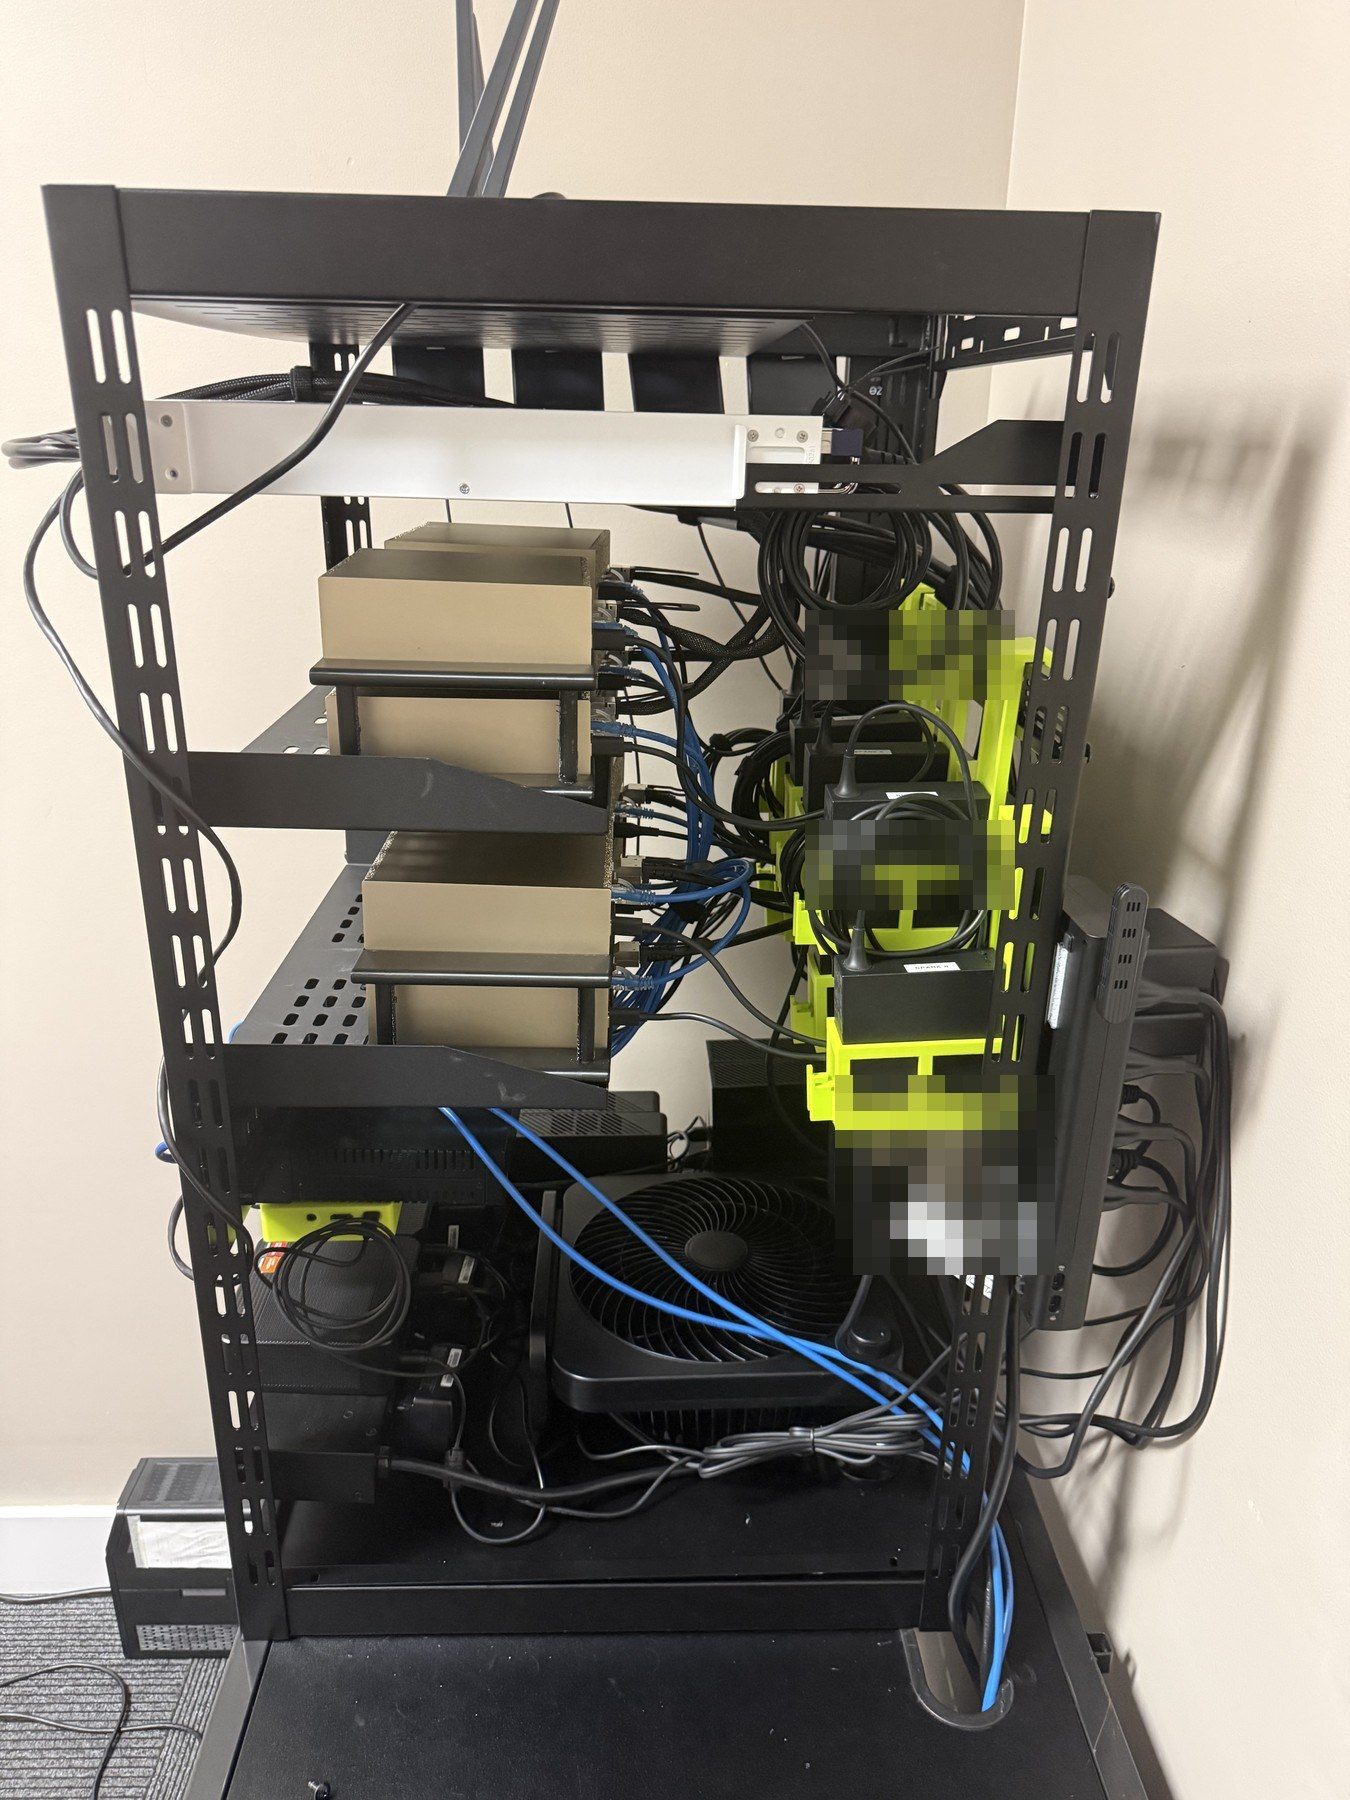
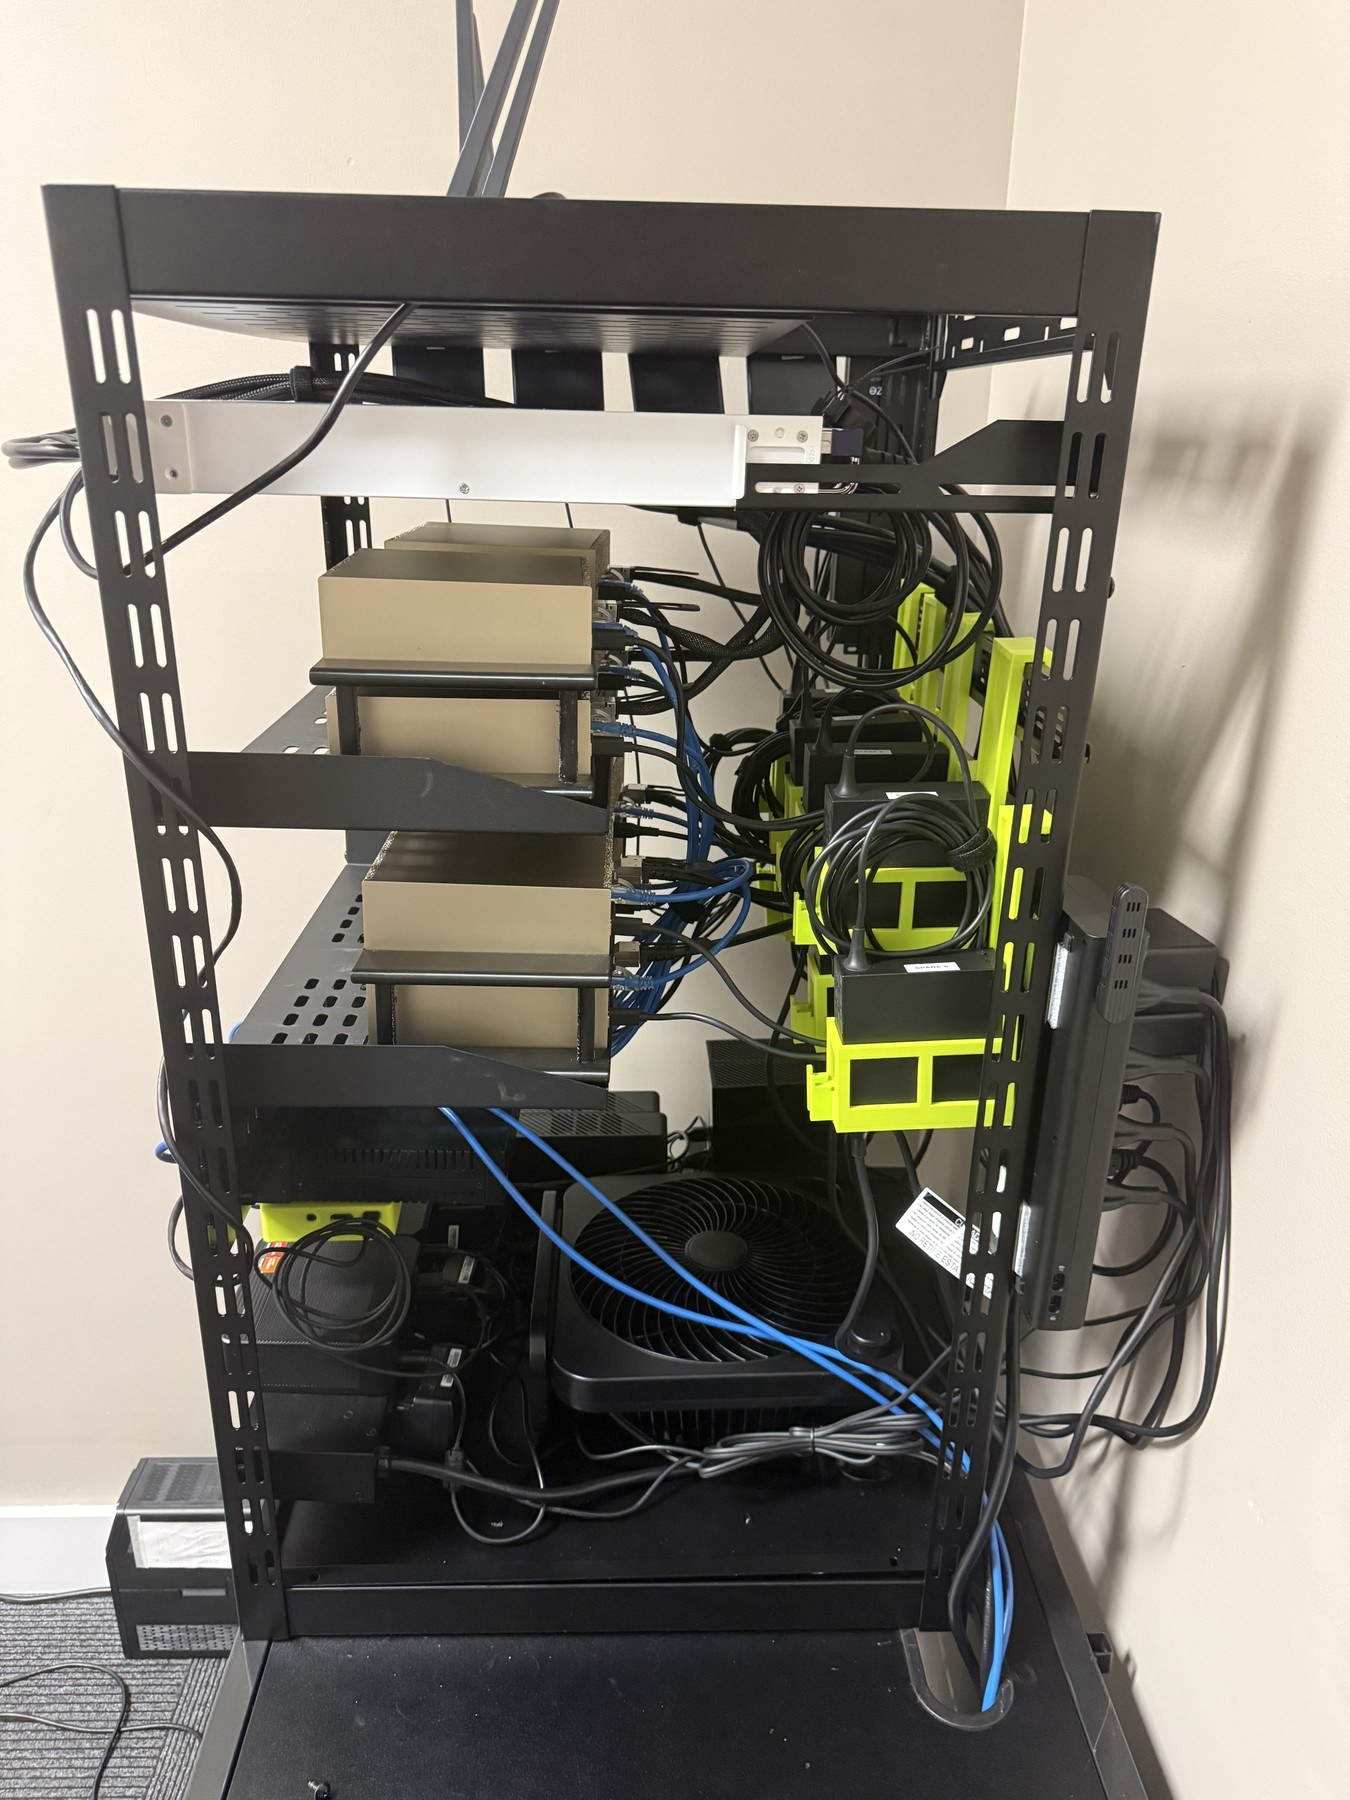
docs: restore approved rack photo details

Changed region(s): [[0.6222, 0.5911, 0.7778, 0.7156], [0.5911, 0.4356, 0.7778, 0.5289], [0.5911, 0.3422, 0.7467, 0.4044]]

diff --git a/docs/MEDIA-REVIEW.md b/docs/MEDIA-REVIEW.md
@@ -24,34 +24,30 @@ The existing rack overview remains part of the review set:
 | 9 | `media/review/09-final-clips-installed-side.jpg` | Installed support geometry from the side |
 | 10 | `media/review/10-final-clips-installed-rear.jpg` | Installed support set from the rear |
 | 11 | `media/review/11-fan-below-psu-standoffs.jpg` | Fan position below the raised PSU bricks |
-| 12 | `media/review/12-completed-rack-rear-sanitized.jpg` | Completed rear arrangement with equipment tags pixelated |
-| 13 | `media/review/13-completed-rack-front-sanitized.jpg` | Completed front arrangement with exact port mapping and labels pixelated |
+| 12 | `media/review/12-completed-rack-rear-sanitized.jpg` | Completed rear arrangement with visible owner-approved equipment labels |
+| 13 | `media/review/13-completed-rack-front-sanitized.jpg` | Completed front arrangement with visible owner-approved rack labels and cabling |
 
 The complete sequence is placed in
 [THERMAL-MANAGEMENT.md](THERMAL-MANAGEMENT.md). Selected frames appear in the
 README and case study where they support the broader engineering timeline.
 
-## Pixel review and redactions
+## Pixel review
 
-The first ten new photographs contain no readable IP addresses, hostnames,
-MAC addresses, credentials, account data, or exact controller map. Three images
-received limited deterministic pixelation:
+All thirteen photographs were manually inspected. The owner approved the
+visible Spark names, power-unit names, equipment model markings, rack labels,
+numbered cable marker, switch and patch-panel cabling, and the completed front
+and rear rack views. No pixels are blurred, masked, pixelated, or replaced.
 
-- `media/review/11-fan-below-psu-standoffs.jpg`: one numbered cable marker;
-- `media/review/12-completed-rack-rear-sanitized.jpg`: small equipment labels
-  and a serial-bearing hanging tag; and
-- `media/review/13-completed-rack-front-sanitized.jpg`: host labels,
-  infrastructure labels, serial-bearing PDU text, and the visible switch-port
-  and patch-panel relationship.
-
-The redactions do not alter the PSU supports, fan, rack structure, or the
-mechanical relationships being documented. Power-bank names that do not expose
-an actionable mapping may remain where visible.
+The photographs contain no visible IP addresses, MAC addresses, usernames,
+credentials, account data, or private controller identifiers. The word
+`sanitized` in two filenames refers to the metadata-free public JPEG conversion,
+not a pixel redaction.
 
 ## Publication gate
 
 - All fourteen review JPEGs are listed in this manifest.
 - Every image reference resolves locally.
 - JPEG metadata markers are rejected by the publication checker.
-- Exact power, controller, and network relationships remain excluded.
+- Exact addresses, credentials, private controller identifiers, and operational
+  configuration remain excluded from the repository text.
 - This remains a draft PR until the owner separately authorizes merge.

diff --git a/docs/PUBLICATION-SAFETY.md b/docs/PUBLICATION-SAFETY.md
@@ -44,10 +44,11 @@ The addresses are reserved for documentation and do not identify the live enviro
 Unreviewed screenshots, rack photos, and equipment maps remain excluded. A
 user-owned image may be staged under `media/review/` only when its metadata has
 been removed, its pixels have been manually inspected, and its placement and
-redactions are documented in [MEDIA-REVIEW.md](MEDIA-REVIEW.md). The reviewed
-set records the PSU-support design and rack thermal work. Exact power,
-controller, host-label, and network-port relationships remain excluded or are
-pixelated in the public copy.
+review status are documented in [MEDIA-REVIEW.md](MEDIA-REVIEW.md). The reviewed
+set records the PSU-support design and rack thermal work. The owner approved the
+visible Spark names, power-unit names, model markings, rack labels, and cabling.
+The photos contain no visible IP addresses, MAC addresses, credentials, account
+data, or private controller identifiers.
 
 ## Automated gate
 

diff --git a/docs/THERMAL-MANAGEMENT.md b/docs/THERMAL-MANAGEMENT.md
@@ -79,9 +79,10 @@ publishing the exact outlet selector or controller identity.
 
 ![Fan below the PSU supports](../media/review/11-fan-below-psu-standoffs.jpg)
 
-The resulting rack is shown from both sides. Small equipment identifiers,
-serial-bearing tags, and exact network-port relationships are pixelated in the
-public copies. The geometry and cooling relationship remain visible.
+The resulting rack is shown from both sides. The owner reviewed and approved
+the visible Spark names, power-unit names, equipment model markings, rack
+labels, and cabling. The public JPEGs retain those pixels while removing the
+original image metadata.
 
 ![Completed rack from the rear](../media/review/12-completed-rack-rear-sanitized.jpg)
 

diff --git a/README.md b/README.md
@@ -10,8 +10,8 @@ This repository is the privacy-reviewed public record of how I brought up, repai
 
 The visual record now follows the power-supply support from the original heat
 pocket through dimensional test prints, final production parts, installation,
-and fan placement. Exact equipment labels and network-port relationships are
-redacted where they would reveal the live physical map. See
+and fan placement. The owner reviewed and approved the visible rack labels and
+cabling in these photographs. See
 [THERMAL-MANAGEMENT.md](docs/THERMAL-MANAGEMENT.md) for the complete build and
 measured fan test.
 

diff --git a/docs/SOURCE-ADAPTATION.md b/docs/SOURCE-ADAPTATION.md
@@ -51,8 +51,8 @@ The public cluster record does not import:
 - raw evidence directories or logs;
 - private inventory and topology manifests;
 - unreviewed screenshots or rack photos; fourteen owner-reviewed JPEGs are
-  staged under `media/review/` with metadata removal and documented pixel
-  redactions;
+  staged under `media/review/` with metadata removal and documented visual
+  review;
 - controller captures or live power maps;
 - unrelated training corpora and model artifacts;
 - active monitoring state; or
